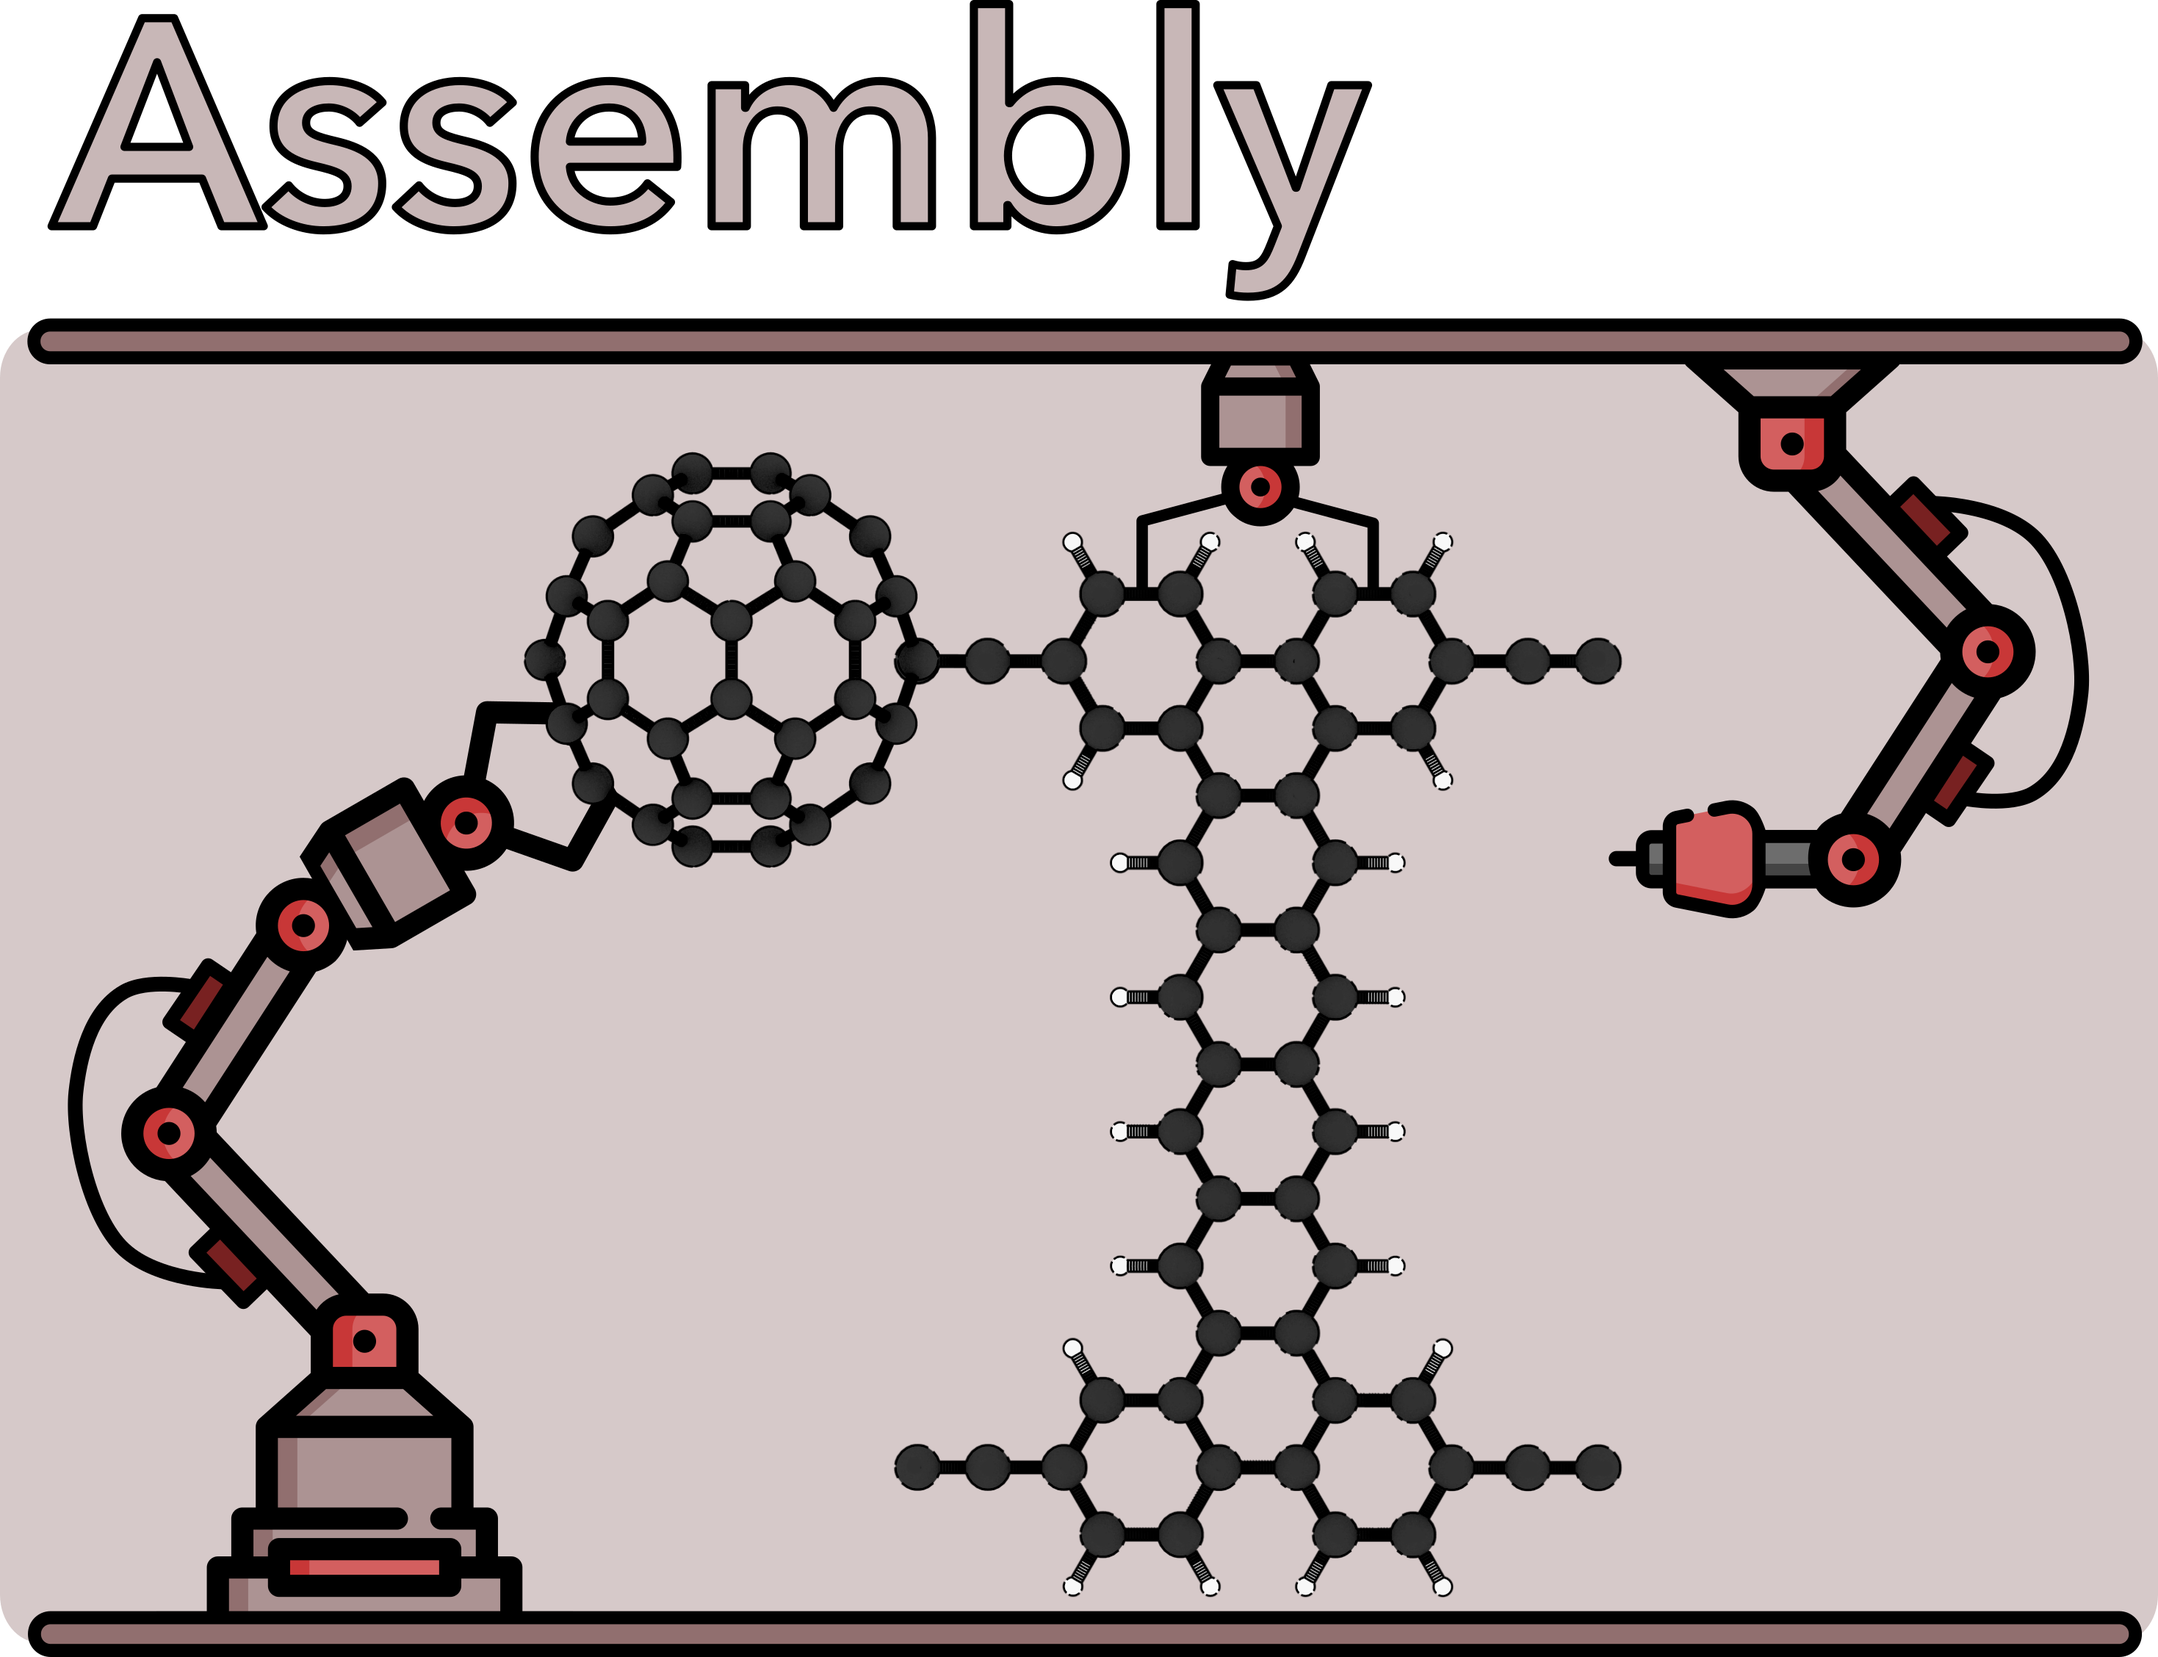
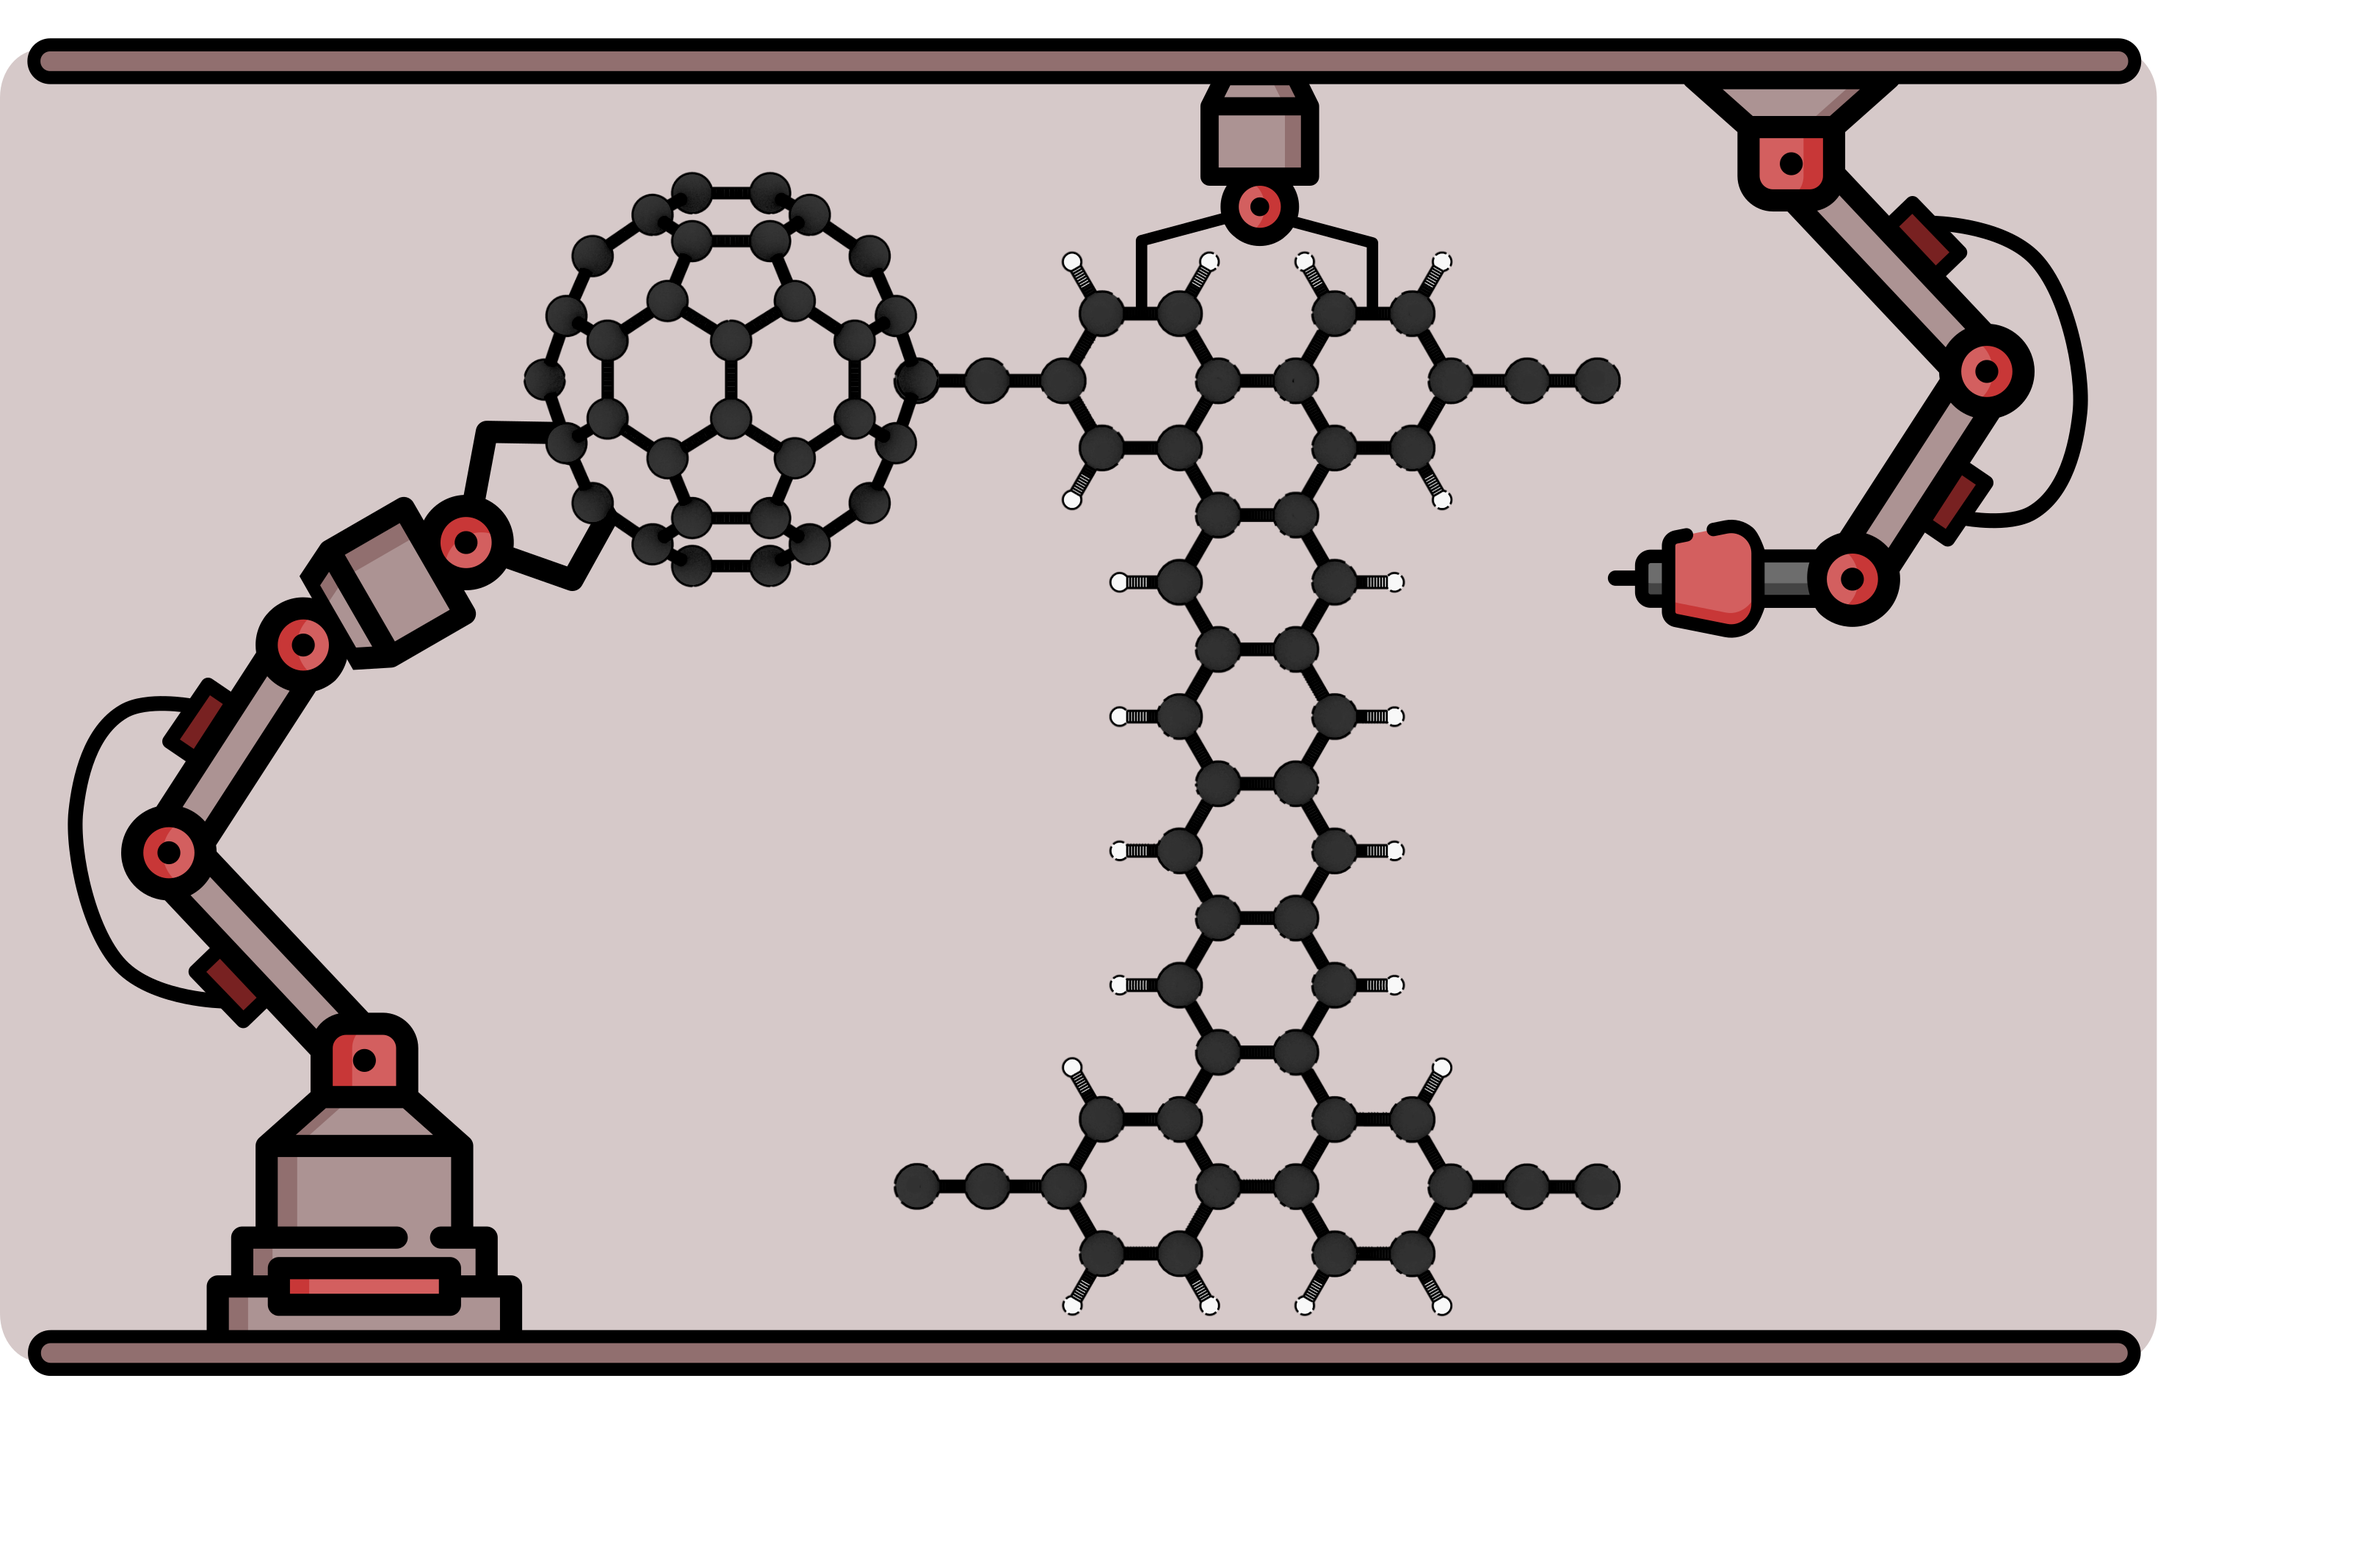
Update Avogadro meeting presentation.

diff --git a/_pages/presentations/Avogadro-Meeting-2018-wide.html b/_pages/presentations/Avogadro-Meeting-2018-wide.html
@@ -118,32 +118,15 @@ class: center, middle
 <p align="center"><img src="/assets/img/presentations/molssi/nanocar-race-2017.jpg" height=300></p>
 
 ---
-## UI Integration
+class: center
 
-.col2L[
-- .red[**Avogadro**]
-  - Molecule drawing
-  - Nanotubes
-]
-.col2[<img src="/assets/img/presentations/molssi/avogadro-builder.png" height=140>]
+**Body Parts - Wheels / Chassis**
+<p align="center"><img src="/assets/img/presentations/avogadro/nanocar-bodyparts.png" height=230></p>
 
 --
 
-.col2L[
-- **ASE**
-  - Nanotubes, nanoribbons
-  - Crystals
-  - Building tools
-]
-.col2[<img src="/assets/img/presentations/molssi/ase-builder.png" height=140>]
-
---
-
-.col2L[
-- **Blender**
-  - Nanoparticles
-]
-.col2[<img src="/assets/img/presentations/molssi/blender-builder.png" height=150>]
+**Nanocar Assembly**
+<p align="center"><img src="/assets/img/presentations/avogadro/nanocar-assembly.png" height=310></p>
 
 ---
 ## Timeline

diff --git a/_pages/presentations/Avogadro-Meeting-2018.html b/_pages/presentations/Avogadro-Meeting-2018.html
@@ -90,12 +90,12 @@ movements (output) as a result of an appropriate external stimulation (input).*
 class: center
 
 **Body Parts - Wheels / Chassis**
-<p align="center"><img src="/assets/img/presentations/avogadro/nanocar-bodyparts2.png" height=230></p>
+<p align="center"><img src="/assets/img/presentations/avogadro/nanocar-bodyparts.png" height=230></p>
 
 --
 
 **Nanocar Assembly**
-<p align="center"><img src="/assets/img/presentations/avogadro/nanocar-assembly2.png" height=310></p>
+<p align="center"><img src="/assets/img/presentations/avogadro/nanocar-assembly.png" height=310></p>
 
 ---
 class: center, middle
